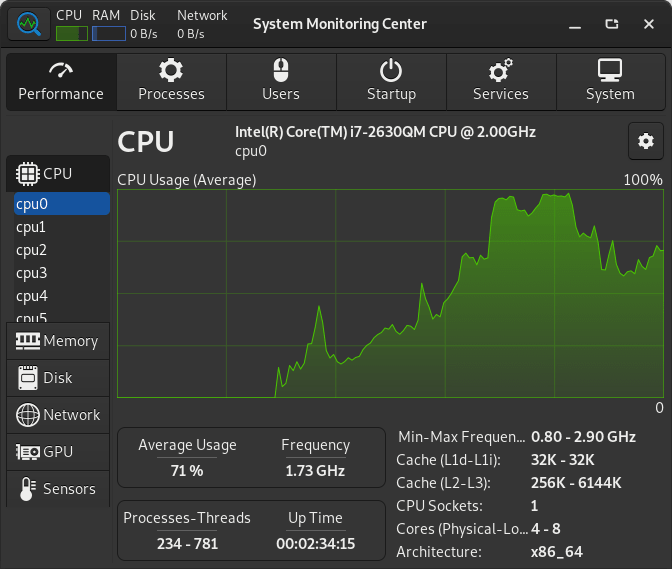
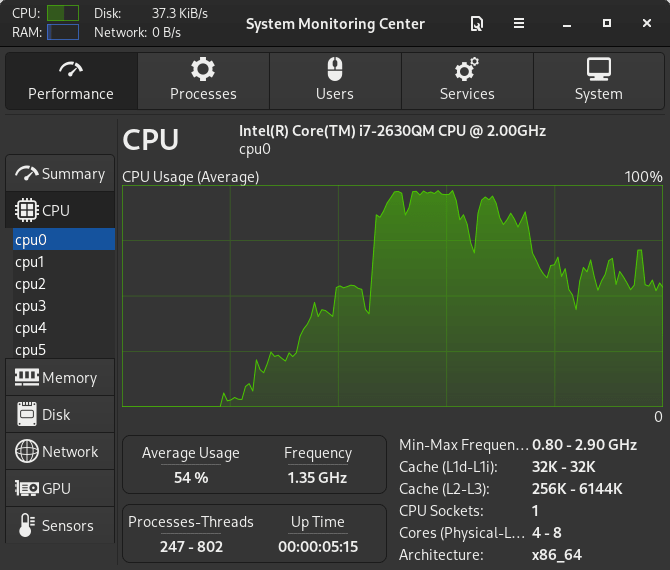
Updated screenshots

diff --git a/src/Disk.py b/src/Disk.py
@@ -153,10 +153,10 @@ class Disk:
         performance_info_grid.set_row_spacing(10)
         self.tab_grid.attach(performance_info_grid, 0, 2, 1, 1)
 
-        # Add viewports for showing borders around some the performance data and round the corners of the viewports.
-        css = b"viewport {border-style: solid; border-radius: 8px 8px 8px 8px; border-width: 1px 1px 1px 1px; border-color: rgba(50%,50%,50%,0.6);}"
-        style_provider_viewport = Gtk.CssProvider()
-        style_provider_viewport.load_from_data(css)
+        # Define style provider for scrolledwindow for border radius.
+        css = b"scrolledwindow {border-radius: 8px 8px 8px 8px;}"
+        style_provider_scrolledwindow = Gtk.CssProvider()
+        style_provider_scrolledwindow.load_from_data(css)
 
         # Add separators for showing lines with contrast colors between some the performance data and set color of the separators.
         css = b"separator {background: rgba(50%,50%,50%,0.6);}"
@@ -164,10 +164,12 @@ class Disk:
         style_provider_separator.load_from_data(css)
 
         # Styled information widgets (Read Speed and Write Speed)
-        # Viewport (Read Speed and Write Speed)
-        viewport = Gtk.Viewport()
-        viewport.get_style_context().add_provider(style_provider_viewport, Gtk.STYLE_PROVIDER_PRIORITY_APPLICATION)
-        performance_info_grid.attach(viewport, 0, 0, 1, 1)
+        # ScrolledWindow (Read Speed and Write Speed)
+        scrolledwindow = Gtk.ScrolledWindow()
+        scrolledwindow.set_has_frame(True)
+        scrolledwindow.get_style_context().add_provider(style_provider_scrolledwindow, Gtk.STYLE_PROVIDER_PRIORITY_APPLICATION)
+        scrolledwindow.set_policy(Gtk.PolicyType.NEVER, Gtk.PolicyType.NEVER)
+        performance_info_grid.attach(scrolledwindow, 0, 0, 1, 1)
         # Grid (Read Speed and Write Speed)
         grid = Gtk.Grid()
         grid.set_column_homogeneous(True)
@@ -177,7 +179,7 @@ class Disk:
         grid.set_margin_start(5)
         grid.set_margin_end(5)
         grid.set_valign(Gtk.Align.CENTER)
-        viewport.set_child(grid)
+        scrolledwindow.set_child(grid)
         # Label (Read Speed)
         label = Gtk.Label()
         label.set_label(_tr("Read Speed"))
@@ -218,10 +220,12 @@ class Disk:
         grid.attach(self.write_speed_label, 1, 2, 1, 1)
 
         # Styled information widgets (Read Data and Write Data)
-        # Viewport (Read Data and Write Data)
-        viewport = Gtk.Viewport()
-        viewport.get_style_context().add_provider(style_provider_viewport, Gtk.STYLE_PROVIDER_PRIORITY_APPLICATION)
-        performance_info_grid.attach(viewport, 0, 1, 1, 1)
+        # ScrolledWindow (Read Data and Write Data)
+        scrolledwindow = Gtk.ScrolledWindow()
+        scrolledwindow.set_has_frame(True)
+        scrolledwindow.get_style_context().add_provider(style_provider_scrolledwindow, Gtk.STYLE_PROVIDER_PRIORITY_APPLICATION)
+        scrolledwindow.set_policy(Gtk.PolicyType.NEVER, Gtk.PolicyType.NEVER)
+        performance_info_grid.attach(scrolledwindow, 0, 1, 1, 1)
         # Grid (Read Data and Write Data)
         grid = Gtk.Grid()
         grid.set_column_homogeneous(True)
@@ -231,8 +235,8 @@ class Disk:
         grid.set_margin_start(5)
         grid.set_margin_end(5)
         grid.set_valign(Gtk.Align.CENTER)
-        viewport.set_child(grid)
-        # LAbel (Read Data)
+        scrolledwindow.set_child(grid)
+        # Label (Read Data)
         label = Gtk.Label()
         label.set_label(_tr("Read Data"))
         label.set_tooltip_text(_tr("Measured value since last system start"))
@@ -460,7 +464,7 @@ class Disk:
         main_grid.set_margin_end(10)
         main_grid.set_column_spacing(10)
         main_grid.set_row_spacing(5)
-        scrolledwindow.set_child(main_grid)
+        viewport.set_child(main_grid)
 
         # Information labels
         # Label (Disk)

diff --git a/src/Network.py b/src/Network.py
@@ -145,10 +145,10 @@ class Network:
         performance_info_grid.set_row_spacing(10)
         self.tab_grid.attach(performance_info_grid, 0, 2, 1, 1)
 
-        # Add viewports for showing borders around some the performance data and round the corners of the viewports.
-        css = b"viewport {border-style: solid; border-radius: 8px 8px 8px 8px; border-width: 1px 1px 1px 1px; border-color: rgba(50%,50%,50%,0.6);}"
-        style_provider_viewport = Gtk.CssProvider()
-        style_provider_viewport.load_from_data(css)
+        # Define style provider for scrolledwindow for border radius.
+        css = b"scrolledwindow {border-radius: 8px 8px 8px 8px;}"
+        style_provider_scrolledwindow = Gtk.CssProvider()
+        style_provider_scrolledwindow.load_from_data(css)
 
         # Add separators for showing lines with contrast colors between some the performance data and set color of the separators.
         css = b"separator {background: rgba(50%,50%,50%,0.6);}"
@@ -156,10 +156,12 @@ class Network:
         style_provider_separator.load_from_data(css)
 
         # Styled information widgets (Download Speed and Upload Speed)
-        # Viewport (Download Speed and Upload Speed)
-        viewport = Gtk.Viewport()
-        viewport.get_style_context().add_provider(style_provider_viewport, Gtk.STYLE_PROVIDER_PRIORITY_APPLICATION)
-        performance_info_grid.attach(viewport, 0, 0, 1, 1)
+        # ScrolledWindow (Download Speed and Upload Speed)
+        scrolledwindow = Gtk.ScrolledWindow()
+        scrolledwindow.set_has_frame(True)
+        scrolledwindow.get_style_context().add_provider(style_provider_scrolledwindow, Gtk.STYLE_PROVIDER_PRIORITY_APPLICATION)
+        scrolledwindow.set_policy(Gtk.PolicyType.NEVER, Gtk.PolicyType.NEVER)
+        performance_info_grid.attach(scrolledwindow, 0, 0, 1, 1)
         # Grid (Download Speed and Upload Speed)
         grid = Gtk.Grid()
         grid.set_column_homogeneous(True)
@@ -169,7 +171,7 @@ class Network:
         grid.set_margin_start(5)
         grid.set_margin_end(5)
         grid.set_valign(Gtk.Align.CENTER)
-        viewport.set_child(grid)
+        scrolledwindow.set_child(grid)
         # Label (Download Speed)
         label = Gtk.Label()
         label.set_label(_tr("Download Speed"))
@@ -210,10 +212,12 @@ class Network:
         grid.attach(self.upload_speed_label, 1, 2, 1, 1)
 
         # Styled information widgets (Download Data and Upload Data)
-        # Viewport (Download Data and Upload Data)
-        viewport = Gtk.Viewport()
-        viewport.get_style_context().add_provider(style_provider_viewport, Gtk.STYLE_PROVIDER_PRIORITY_APPLICATION)
-        performance_info_grid.attach(viewport, 0, 1, 1, 1)
+        # ScrolledWindow (Download Data and Upload Data)
+        scrolledwindow = Gtk.ScrolledWindow()
+        scrolledwindow.set_has_frame(True)
+        scrolledwindow.get_style_context().add_provider(style_provider_scrolledwindow, Gtk.STYLE_PROVIDER_PRIORITY_APPLICATION)
+        scrolledwindow.set_policy(Gtk.PolicyType.NEVER, Gtk.PolicyType.NEVER)
+        performance_info_grid.attach(scrolledwindow, 0, 1, 1, 1)
         # Grid (Download Data and Upload Data)
         grid = Gtk.Grid()
         grid.set_column_homogeneous(True)
@@ -223,7 +227,7 @@ class Network:
         grid.set_margin_start(5)
         grid.set_margin_end(5)
         grid.set_valign(Gtk.Align.CENTER)
-        viewport.set_child(grid)
+        scrolledwindow.set_child(grid)
         # Label (Download Data)
         label = Gtk.Label()
         label.set_label(_tr("Download Data"))

diff --git a/src/Cpu.py b/src/Cpu.py
@@ -145,10 +145,10 @@ class Cpu:
         performance_info_grid.set_row_spacing(10)
         self.tab_grid.attach(performance_info_grid, 0, 2, 1, 1)
 
-        # Add viewports for showing borders around some the performance data and round the corners of the viewports.
-        css = b"viewport {border-style: solid; border-radius: 8px 8px 8px 8px; border-width: 1px 1px 1px 1px; border-color: rgba(50%,50%,50%,0.6);}"
-        style_provider_viewport = Gtk.CssProvider()
-        style_provider_viewport.load_from_data(css)
+        # Define style provider for scrolledwindow for border radius.
+        css = b"scrolledwindow {border-radius: 8px 8px 8px 8px;}"
+        style_provider_scrolledwindow = Gtk.CssProvider()
+        style_provider_scrolledwindow.load_from_data(css)
 
         # Add separators for showing lines with contrast colors between some the performance data and set color of the separators.
         css = b"separator {background: rgba(50%,50%,50%,0.6);}"
@@ -156,10 +156,12 @@ class Cpu:
         style_provider_separator.load_from_data(css)
 
         # Styled information widgets (Average Usage and Frequency)
-        # Viewport (Average Usage and Frequency)
-        viewport = Gtk.Viewport()
-        viewport.get_style_context().add_provider(style_provider_viewport, Gtk.STYLE_PROVIDER_PRIORITY_APPLICATION)
-        performance_info_grid.attach(viewport, 0, 0, 1, 1)
+        # ScrolledWindow (Average Usage and Frequency)
+        scrolledwindow = Gtk.ScrolledWindow()
+        scrolledwindow.set_has_frame(True)
+        scrolledwindow.get_style_context().add_provider(style_provider_scrolledwindow, Gtk.STYLE_PROVIDER_PRIORITY_APPLICATION)
+        scrolledwindow.set_policy(Gtk.PolicyType.NEVER, Gtk.PolicyType.NEVER)
+        performance_info_grid.attach(scrolledwindow, 0, 0, 1, 1)
         # Grid (Average Usage and Frequency)
         grid = Gtk.Grid()
         grid.set_column_homogeneous(True)
@@ -169,7 +171,7 @@ class Cpu:
         grid.set_margin_start(5)
         grid.set_margin_end(5)
         grid.set_valign(Gtk.Align.CENTER)
-        viewport.set_child(grid)
+        scrolledwindow.set_child(grid)
         # Label (Average Usage)
         label = Gtk.Label()
         label.set_label(_tr("Average Usage"))
@@ -211,10 +213,12 @@ class Cpu:
         grid.attach(self.frequency_label, 1, 2, 1, 1)
 
         # Styled information widgets (Processes-Threads and Up Time)
-        # Viewport (Processes-Threads and Up Time)
-        viewport = Gtk.Viewport()
-        viewport.get_style_context().add_provider(style_provider_viewport, Gtk.STYLE_PROVIDER_PRIORITY_APPLICATION)
-        performance_info_grid.attach(viewport, 0, 1, 1, 1)
+        # ScrolledWindow (Processes-Threads and Up Time)
+        scrolledwindow = Gtk.ScrolledWindow()
+        scrolledwindow.set_has_frame(True)
+        scrolledwindow.get_style_context().add_provider(style_provider_scrolledwindow, Gtk.STYLE_PROVIDER_PRIORITY_APPLICATION)
+        scrolledwindow.set_policy(Gtk.PolicyType.NEVER, Gtk.PolicyType.NEVER)
+        performance_info_grid.attach(scrolledwindow, 0, 1, 1, 1)
         # Grid (Processes-Threads and Up Time)
         grid = Gtk.Grid()
         grid.set_column_homogeneous(True)
@@ -224,7 +228,7 @@ class Cpu:
         grid.set_margin_start(5)
         grid.set_margin_end(5)
         grid.set_valign(Gtk.Align.CENTER)
-        viewport.set_child(grid)
+        scrolledwindow.set_child(grid)
         # Label (Processes-Threads)
         label = Gtk.Label()
         label.set_label(_tr("Processes-Threads"))

diff --git a/src/Gpu.py b/src/Gpu.py
@@ -147,10 +147,10 @@ class Gpu:
         performance_info_grid.set_row_spacing(10)
         self.tab_grid.attach(performance_info_grid, 0, 2, 1, 1)
 
-        # Add viewports for showing borders around some the performance data and round the corners of the viewports.
-        css = b"viewport {border-style: solid; border-radius: 8px 8px 8px 8px; border-width: 1px 1px 1px 1px; border-color: rgba(50%,50%,50%,0.6);}"
-        style_provider_viewport = Gtk.CssProvider()
-        style_provider_viewport.load_from_data(css)
+        # Define style provider for scrolledwindow for border radius.
+        css = b"scrolledwindow {border-radius: 8px 8px 8px 8px;}"
+        style_provider_scrolledwindow = Gtk.CssProvider()
+        style_provider_scrolledwindow.load_from_data(css)
 
         # Add separators for showing lines with contrast colors between some the performance data and set color of the separators.
         css = b"separator {background: rgba(50%,50%,50%,0.6);}"
@@ -158,10 +158,12 @@ class Gpu:
         style_provider_separator.load_from_data(css)
 
         # Styled information widgets (GPU Usage and Video Memory)
-        # Viewport (GPU Usage and Video Memory)
-        viewport = Gtk.Viewport()
-        viewport.get_style_context().add_provider(style_provider_viewport, Gtk.STYLE_PROVIDER_PRIORITY_APPLICATION)
-        performance_info_grid.attach(viewport, 0, 0, 1, 1)
+        # ScrolledWindow (GPU Usage and Video Memory)
+        scrolledwindow = Gtk.ScrolledWindow()
+        scrolledwindow.set_has_frame(True)
+        scrolledwindow.get_style_context().add_provider(style_provider_scrolledwindow, Gtk.STYLE_PROVIDER_PRIORITY_APPLICATION)
+        scrolledwindow.set_policy(Gtk.PolicyType.NEVER, Gtk.PolicyType.NEVER)
+        performance_info_grid.attach(scrolledwindow, 0, 0, 1, 1)
         # Grid (GPU Usage and Video Memory)
         grid = Gtk.Grid()
         grid.set_column_homogeneous(True)
@@ -171,7 +173,7 @@ class Gpu:
         grid.set_margin_start(5)
         grid.set_margin_end(5)
         grid.set_valign(Gtk.Align.CENTER)
-        viewport.set_child(grid)
+        scrolledwindow.set_child(grid)
         # Label (GPU Usage)
         label = Gtk.Label()
         label.set_label(_tr("GPU Usage"))
@@ -212,10 +214,12 @@ class Gpu:
         grid.attach(self.video_memory_label, 1, 2, 1, 1)
 
         # Styled information widgets (Frequency and Temperature)
-        # Viewport (Frequency and Temperature)
-        viewport = Gtk.Viewport()
-        viewport.get_style_context().add_provider(style_provider_viewport, Gtk.STYLE_PROVIDER_PRIORITY_APPLICATION)
-        performance_info_grid.attach(viewport, 0, 1, 1, 1)
+        # ScrolledWindow (Frequency and Temperature)
+        scrolledwindow = Gtk.ScrolledWindow()
+        scrolledwindow.set_has_frame(True)
+        scrolledwindow.get_style_context().add_provider(style_provider_scrolledwindow, Gtk.STYLE_PROVIDER_PRIORITY_APPLICATION)
+        scrolledwindow.set_policy(Gtk.PolicyType.NEVER, Gtk.PolicyType.NEVER)
+        performance_info_grid.attach(scrolledwindow, 0, 1, 1, 1)
         # Grid (Frequency and Temperature)
         grid = Gtk.Grid()
         grid.set_column_homogeneous(True)
@@ -225,7 +229,7 @@ class Gpu:
         grid.set_margin_start(5)
         grid.set_margin_end(5)
         grid.set_valign(Gtk.Align.CENTER)
-        viewport.set_child(grid)
+        scrolledwindow.set_child(grid)
         # Label (Frequency)
         label = Gtk.Label()
         label.set_label(_tr("Frequency"))

diff --git a/src/Memory.py b/src/Memory.py
@@ -150,10 +150,10 @@ class Memory:
         performance_info_grid.set_row_spacing(6)
         self.tab_grid.attach(performance_info_grid, 0, 2, 1, 1)
 
-        # Add viewports for showing borders around some the performance data and round the corners of the viewports.
-        css = b"viewport {border-style: solid; border-radius: 8px 8px 8px 8px; border-width: 1px 1px 1px 1px; border-color: rgba(50%,50%,50%,0.6);}"
-        style_provider_viewport = Gtk.CssProvider()
-        style_provider_viewport.load_from_data(css)
+        # Define style provider for scrolledwindow for border radius.
+        css = b"scrolledwindow {border-radius: 8px 8px 8px 8px;}"
+        style_provider_scrolledwindow = Gtk.CssProvider()
+        style_provider_scrolledwindow.load_from_data(css)
 
         # Add separators for showing lines with contrast colors between some the performance data and set color of the separators.
         css = b"separator {background: rgba(50%,50%,50%,0.6);}"
@@ -168,10 +168,12 @@ class Memory:
         performance_info_grid.attach(label, 0, 0, 1, 1)
 
         # Styled information widgets (Used and Available)
-        # Viewport (Used and Available)
-        viewport = Gtk.Viewport()
-        viewport.get_style_context().add_provider(style_provider_viewport, Gtk.STYLE_PROVIDER_PRIORITY_APPLICATION)
-        performance_info_grid.attach(viewport, 0, 1, 1, 1)
+        # ScrolledWindow (Used and Available)
+        scrolledwindow = Gtk.ScrolledWindow()
+        scrolledwindow.set_has_frame(True)
+        scrolledwindow.get_style_context().add_provider(style_provider_scrolledwindow, Gtk.STYLE_PROVIDER_PRIORITY_APPLICATION)
+        scrolledwindow.set_policy(Gtk.PolicyType.NEVER, Gtk.PolicyType.NEVER)
+        performance_info_grid.attach(scrolledwindow, 0, 1, 1, 1)
         # Grid (Used and Available)
         grid = Gtk.Grid()
         grid.set_column_homogeneous(True)
@@ -181,7 +183,7 @@ class Memory:
         grid.set_margin_start(5)
         grid.set_margin_end(5)
         grid.set_valign(Gtk.Align.CENTER)
-        viewport.set_child(grid)
+        scrolledwindow.set_child(grid)
         # Label (Used)
         label = Gtk.Label()
         label.set_label(_tr("Used"))
@@ -283,10 +285,12 @@ class Memory:
         performance_info_grid.attach(label, 1, 0, 1, 1)
 
         # Styled information widgets (Used and Used (percent))
-        # Viewport (Used and Used (percent))
-        viewport = Gtk.Viewport()
-        viewport.get_style_context().add_provider(style_provider_viewport, Gtk.STYLE_PROVIDER_PRIORITY_APPLICATION)
-        performance_info_grid.attach(viewport, 1, 1, 1, 1)
+        # ScrolledWindow (Used and Used (percent))
+        scrolledwindow = Gtk.ScrolledWindow()
+        scrolledwindow.set_has_frame(True)
+        scrolledwindow.get_style_context().add_provider(style_provider_scrolledwindow, Gtk.STYLE_PROVIDER_PRIORITY_APPLICATION)
+        scrolledwindow.set_policy(Gtk.PolicyType.NEVER, Gtk.PolicyType.NEVER)
+        performance_info_grid.attach(scrolledwindow, 1, 1, 1, 1)
         # Grid (Used and Used (percent))
         grid = Gtk.Grid()
         grid.set_column_homogeneous(True)
@@ -296,7 +300,7 @@ class Memory:
         grid.set_margin_start(5)
         grid.set_margin_end(5)
         grid.set_valign(Gtk.Align.CENTER)
-        viewport.set_child(grid)
+        scrolledwindow.set_child(grid)
         # Label (Used)
         label = Gtk.Label()
         label.set_label(_tr("Used"))
